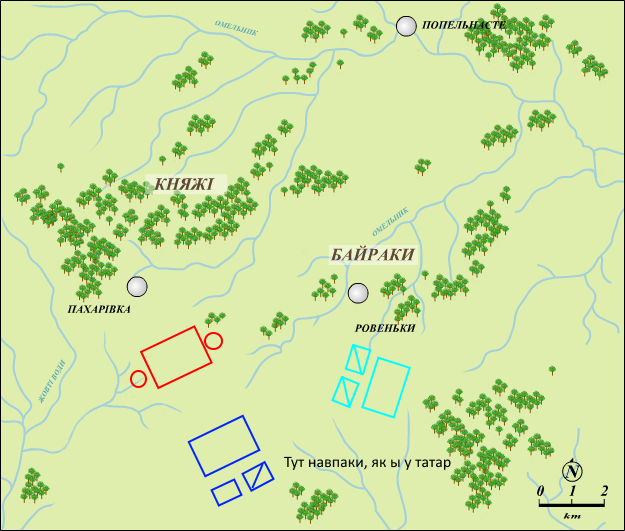
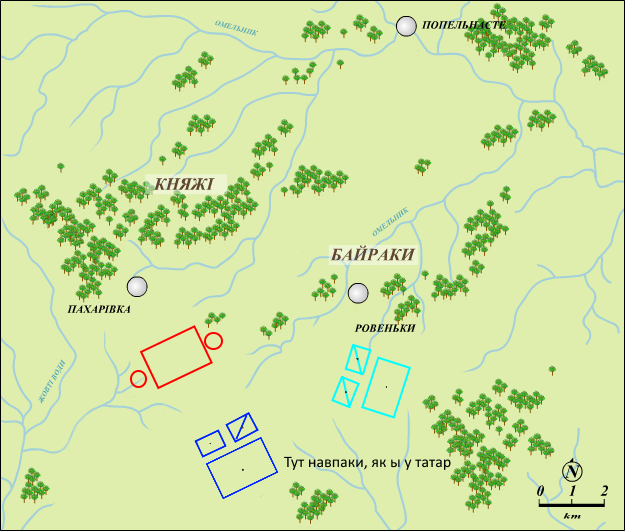
Added turn1, made dummy methods

Changed region(s): [[0.304, 0.7834, 0.456, 0.9642]]

diff --git a/battles.js b/battles.js
@@ -5,11 +5,15 @@ var debug4;
 var shaerdGraphics;
 var MEGA_GLOBAL_VAR_SPEED = 50;
 var startTurn = 1;
+var legendWidth = false;
 
 function expand(){
     var width = $("#legend").width();
-    console.log(width);
-    $("#legend").width(width + 50);
+    if (!legendWidth){
+        legendWidth = width;
+    }
+    console.log(legendWidth);
+    $("#legend").width(legendWidth + 50);
     console.log($("#legend").width());
 }
 
@@ -324,7 +328,178 @@ function corsun() {
 }
 
 function jovti(){
+    var text = ["Битва під Жовтими Водами","Жопа"];
+    expand();
+    var legend = "<h6><div class=\"row\"><img src=\"hmel.png\"></div><div class=\"row\">Б. Хмельницький</div><p><div class=\"row\"><img src=\"polish-legend.png\"></div><div class=\"row\">М. Потоцький <br> М. Калиновський</div><div class=\"row\"><img src=\"osmans.png\"></div><div class=\"row\">Тугай Бей</div><div class=\"row\"><img src=\"kryvonos.png\"></div><div class=\"row\">М. Кривоніс</div><div class=\"row\"><img src=\"cavalry.png\" width=\"45%\" height=\"45%\"></div><div class=\"row\">І. Богун</div><div class=\"row\"></div></h6>";
+    addLegend(legend);
+    var turn = startTurn;
+    var step = 1;
+    var anime = false;
+    $('#name').html(text[0]);
+    addText(1, text);
+    var renderer = new PIXI.CanvasRenderer(625, 531);
+    $("#container").html(renderer.view);
+    var stage = new PIXI.Container();
+    var container = new PIXI.Container();
+    container.interactive = true;
+    container.on('mousedown', onDown);
+    container.on('touchstart', onDown);
+    stage.addChild(container);
+    shaerdGraphics = new PIXI.Graphics();
+    stage.addChild(shaerdGraphics);
+    var bg = PIXI.Sprite.fromImage('map3.png');
+    bg.width = renderer.width;
+    bg.height = renderer.height;
+    container.addChild(bg);
+    animate();
+    animate();
+    animate();
+
+    var potockij = new PIXI.Sprite(PIXI.Texture.fromImage('polish3.png'));
+    potockij.anchor.set(0.5, 0.5);
+    potockij.position.set(175, 360);
+    potockij.rotation = -0.44;
+    container.addChild(potockij);
+
+
+    var push1 = new PIXI.Sprite(PIXI.Texture.fromImage('pushkar.png'));
+    push1.anchor.set(0.5, 0.5);
+    push1.scale.set(0.7, 0.7);
+    push1.rotation = Math.PI;
+    push1.position.set(138, 380);
+    container.addChild(push1);
     
+    var push2 = new PIXI.Sprite(PIXI.Texture.fromImage('pushkar.png'));
+    push2.anchor.set(0.5, 0.5);
+    push2.scale.set(0.7, 0.7);
+    push2.rotation = Math.PI;
+    push2.position.set(215, 340);
+    container.addChild(push2);
+
+    var hmel = new PIXI.Sprite(PIXI.Texture.fromImage('hmel.png'));
+    hmel.anchor.set(0.5, 0.5);
+    //hmel.scale.set(0.7, 0.7);
+    hmel.rotation = -0.44;
+    hmel.position.set(242, 469);
+    container.addChild(hmel);
+
+    var hmelO1 = new PIXI.Sprite(PIXI.Texture.fromImage('infantry.png'));
+    hmelO1.anchor.set(0.5, 0.5);
+    hmelO1.scale.set(0.4, 0.4);
+    hmelO1.rotation = -0.44;
+    hmelO1.position.set(210, 443);
+    container.addChild(hmelO1);
+
+    var hmelO2 = new PIXI.Sprite(PIXI.Texture.fromImage('infantry.png'));
+    hmelO2.anchor.set(0.5, 0.5);
+    hmelO2.scale.set(0.4, 0.4);
+    hmelO2.rotation = -0.44;
+    hmelO2.position.set(242, 427);
+    container.addChild(hmelO2);
+
+
+//225, 493
+    
+//1.3 rot  386, 387
+    var tatari = new PIXI.Sprite(PIXI.Texture.fromImage('osmans.png'));
+    tatari.anchor.set(0.5, 0.5);
+    //tatari.scale.set(0.4, 0.4);
+    tatari.rotation = - 1.3;
+    tatari.position.set(386, 386);
+    container.addChild(tatari);
+
+    var tatari1 = new PIXI.Sprite(PIXI.Texture.fromImage('osmans.png'));
+    tatari1.anchor.set(0.5, 0.5);
+    tatari1.scale.set(0.4, 0.4);
+    tatari1.rotation = - 1.3;
+    tatari1.position.set(358, 358);
+    container.addChild(tatari1);
+
+    var tatari2 = new PIXI.Sprite(PIXI.Texture.fromImage('osmans.png'));
+    tatari2.anchor.set(0.5, 0.5);
+    tatari2.scale.set(0.4, 0.4);
+    tatari2.rotation = - 1.3;
+    tatari2.position.set(348, 392);
+    container.addChild(tatari2);
+
+    function onDown(eventData) {
+        anime = true;
+        addText(turn, text);
+    }
+
+    function animate() {
+        requestAnimationFrame(animate);
+        renderer.render(stage);
+        if (anime) {
+            switch (turn) {
+                case 1:
+                    turn1();
+                    break;
+                case 2:
+                    turn2();
+                    break;
+                case 3:
+                    turn3();
+                    break;
+                case 4:
+                    turn4();
+                    break;
+                case 5:
+                    turn5();
+                    break;
+                case 6:
+                    turn6();
+                    break;
+                case 7:
+                    turn7();
+                    break;
+                case 8:
+                    turn8();
+                    break;
+            }
+        }
+    }
+
+    function turn1(){
+        //175, 355
+        turn++;
+        anime = false;
+    }
+
+    function turn2(){
+        turn++;
+        anime = false;
+    }
+
+    function turn3(){
+        turn++;
+        anime = false;
+    }
+
+    function turn4(){
+        turn++;
+        anime = false;
+    }
+
+    function turn5(){
+        turn++;
+        anime = false;
+    }
+
+    function turn6(){
+        turn++;
+        anime = false;
+    }
+
+    function turn7(){
+        turn++;
+        anime = false;
+    }
+
+    function turn8(){
+        turn++;
+        anime = false;
+    }
 }
 
 function addText(id, q) {

diff --git a/test.html b/test.html
@@ -23,7 +23,7 @@
                                         <a href="#" class="dropdown-toggle">Битви</a>
                                         <ul class="d-menu" data-role="dropdown">
                                             <li><a href="#" onclick="corsun()" >Корсунська Битва</a></li>
-                                            <li><a href="#">2</a></li>
+                                            <li><a href="#" onclick="jovti()">2</a></li>
                                             <li><a href="#">3</a></li>
                                         </ul>
                                     </li>
